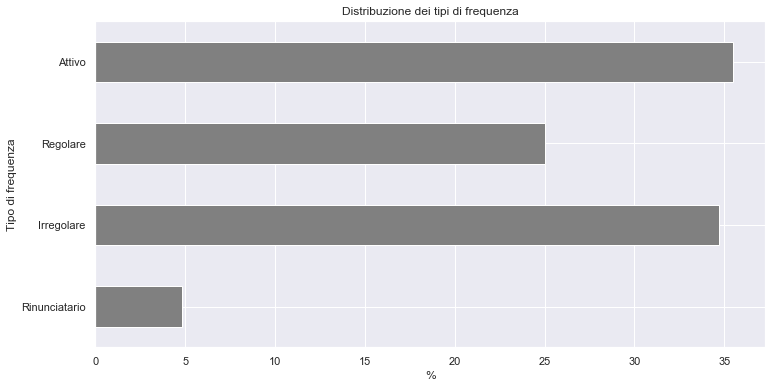
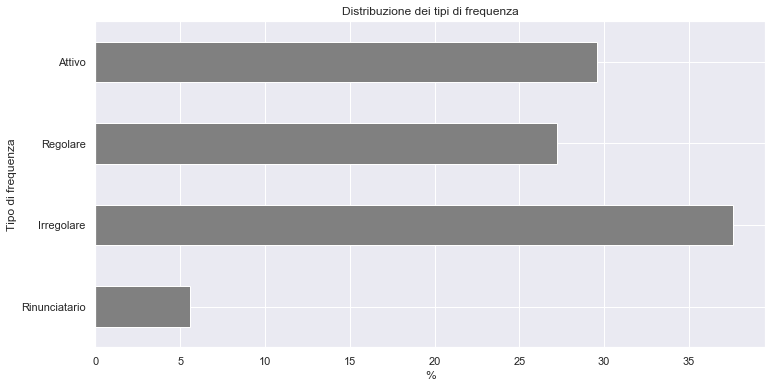
Updated freq

diff --git a/sito/frequenze.md b/sito/frequenze.md
@@ -8,7 +8,7 @@ Questa pagina contiene una analisi *aggregata* delle informazioni riguardanti la
 
 Il primo grafico riporta il numero assoluto di studenti presenti 
 per ciascuna lezione che si è svolta alla data odierna, in media
-sono stati presenti **89.5** ($\sigma=6.71$) studenti.
+sono stati presenti **88.66** ($\sigma=6.76$) studenti.
 
 
 
@@ -21,7 +21,7 @@ sono stati presenti **89.5** ($\sigma=6.71$) studenti.
 
 
 Il grafico seguente riporta la percentuale degli studenti (rispetto al numero 
-totale **124** di studenti che hanno assistito ad almeno una lezione), che sono stati 
+totale **125** di studenti che hanno assistito ad almeno una lezione), che sono stati 
 presenti ad un dato numero di lezioni.
 
 
